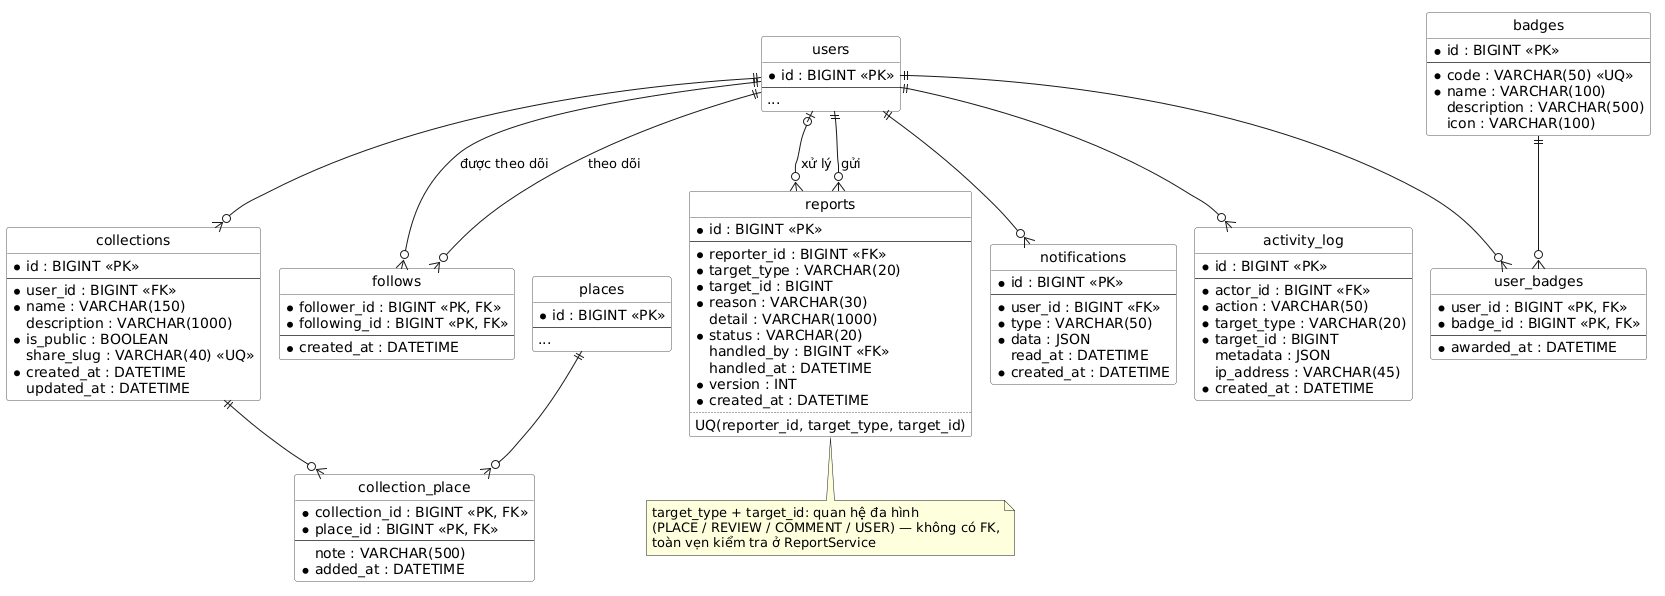
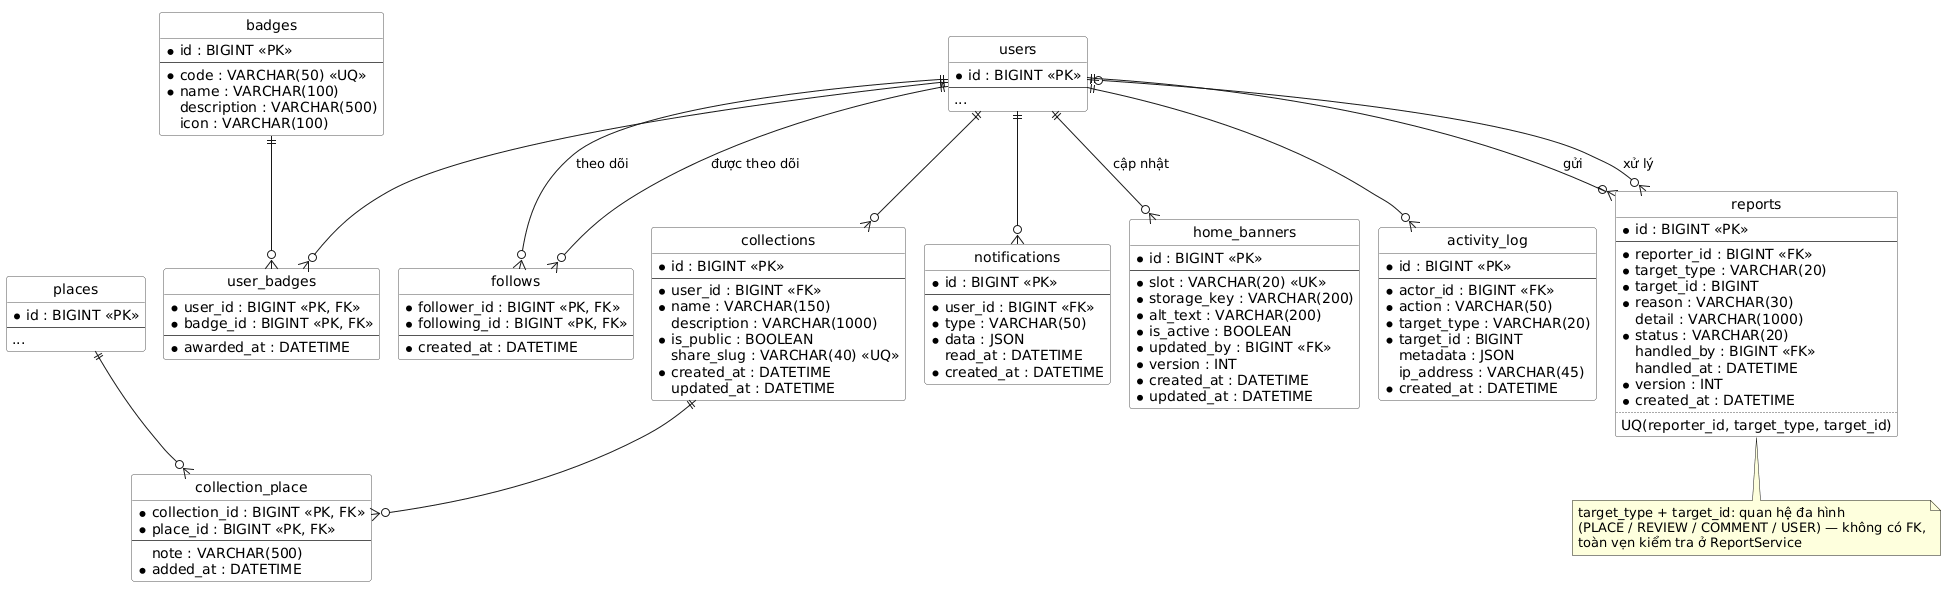
docs(diagrams): sync diagrams with V5/V6 and add architecture diagram
- use case overview and sitemap: add UC34 (home page images); the
  official use case count is now 34
- ERD and domain class diagram: add home_banners and reviews.revised_at
- new architecture.puml for the overall system architecture
- re-render the affected PNGs, including the stale class-review-module

diff --git a/docs/diagrams/README.md b/docs/diagrams/README.md
@@ -19,7 +19,8 @@ Xem nhanh trong VS Code: extension "PlantUML" (jebbs.plantuml), `Alt+D`.
 
 | File | Nội dung | Use case |
 |---|---|---|
-| use-case-overview | Sơ đồ use case tổng quát | UC01–UC33 |
+| architecture | Kiến trúc tổng thể (SPA, API, hạ tầng) — plan §3 | — |
+| use-case-overview | Sơ đồ use case tổng quát | UC01–UC34 |
 | activity-write-review | Hoạt động: viết đánh giá | UC12 |
 | activity-approve-place | Hoạt động: đề xuất & duyệt địa điểm | UC11, UC27 |
 | activity-check-in | Hoạt động: check-in | UC16 |
@@ -31,4 +32,4 @@ Xem nhanh trong VS Code: extension "PlantUML" (jebbs.plantuml), `Alt+D`.
 | erd-community | ERD 3/3: cộng đồng & vận hành | — |
 | class-domain | Sơ đồ lớp 1/2: mô hình miền (JPA entity) | — |
 | class-review-module | Sơ đồ lớp 2/2: module đánh giá theo phân lớp | UC12, UC28 |
-| sitemap | Sitemap frontend (route theo layout) — chi tiết ở [docs/design/sitemap.md](../design/sitemap.md) | UC01–UC33 |
+| sitemap | Sitemap frontend (route theo layout) — chi tiết ở [docs/design/sitemap.md](../design/sitemap.md) | UC01–UC34 |

diff --git a/CLAUDE.md b/CLAUDE.md
@@ -59,7 +59,7 @@ Nguồn chuẩn cho mọi việc liên quan UI nằm ở `docs/design-system/`. 
 - `docs/design-system/tokens.css` (và `tokens.json`) — design tokens, dùng `var(--...)`, không hard-code màu/cỡ chữ
 - `docs/design-system/components/<Tên>/README.md` — API & quy tắc từng thành phần; `preview.html` là bản xem mẫu
 - `docs/design-system/api/` — tham chiếu tokens và props của các thành phần
-- `docs/design-system/use-cases.md` — bảng UC → màn hình → thành phần (33 UC, 5 tác nhân)
+- `docs/design-system/use-cases.md` — bảng UC → màn hình → thành phần (34 UC, 5 tác nhân)
 - `docs/design-system/DECISIONS.md` — quyết định đã chốt & câu hỏi còn chờ quyết (29/09/2026)
 
 Quy tắc cốt lõi: không gradient, không đổ bóng, không card lồng card; trạng thái không chỉ bằng màu;
